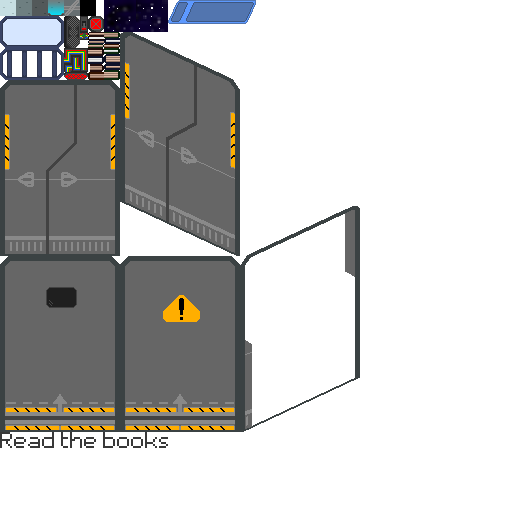
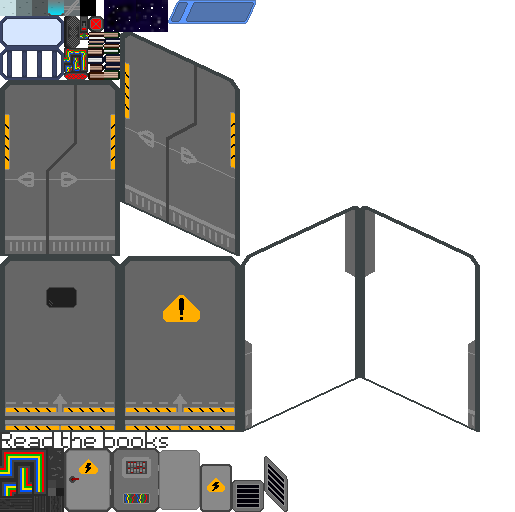
More levels. Robo mentor

diff --git a/src/main/resources/tiles/level/ShipEnvironment.tsx b/src/main/resources/tiles/level/ShipEnvironment.tsx
@@ -1,4 +1,4 @@
 <?xml version="1.0" encoding="UTF-8"?>
-<tileset version="1.5" tiledversion="1.6.0" name="ShipEnvironment" tilewidth="8" tileheight="8" tilecount="1024" columns="32">
- <image source="ShipEnvironment.png" width="256" height="256"/>
+<tileset version="1.5" tiledversion="1.6.0" name="ShipEnvironment" tilewidth="8" tileheight="8" tilecount="4096" columns="64">
+ <image source="ShipEnvironment.png" width="515" height="512"/>
 </tileset>

diff --git a/src/main/java/game/SetupGame.java b/src/main/java/game/SetupGame.java
@@ -22,14 +22,20 @@ public class SetupGame extends StateBasedGame {
     public void initStatesList(GameContainer gameContainer) throws SlickException {
         init();
 
-//        this.addState(new IntState(0, new Image("img/logo/logo.png"), null, "Press ENTER", Input.KEY_ENTER, 1));
-//        this.addState(new BaseState(1, "tiles/level/LEVEL_1.tmx", "tiles/level/LEVEL_1_FRONT.tmx", "sounds/level/Countryside.wav", new XYPos(115, 390))); //space-ambience.wav
-//
-//        this.addState(new IntState(2, null,"Strange ground hole", "Press ENTER", Input.KEY_ENTER, 3));
-//        this.addState(new BaseState(3, "tiles/level/LEVEL_2.tmx", null, "sounds/level/space-ambience.wav", new XYPos(70, 440)));
-//
+        this.addState(new IntState(0, new Image("img/logo/logo.png"), null, "Press ENTER", Input.KEY_ENTER, 1));
+        this.addState(new BaseState(1, "tiles/level/LEVEL_1.tmx", "tiles/level/LEVEL_1_FRONT.tmx", "sounds/level/Countryside.wav", new XYPos(115, 390))); //space-ambience.wav
+
+        this.addState(new IntState(2, null,"Strange ground hole", "Press ENTER", Input.KEY_ENTER, 3));
+        this.addState(new BaseState(3, "tiles/level/LEVEL_2.tmx", null, "sounds/level/space-ambience.wav", new XYPos(70, 440)));
+
         this.addState(new IntState(4, null,"The books..", "Press ENTER", Input.KEY_ENTER, 5));
         this.addState(new BaseState(5, "tiles/level/LEVEL_3.tmx", null, "sounds/level/space-ambience.wav", new XYPos(250, 512)));
+
+        this.addState(new IntState(6, null,"Space prison", "Press ENTER", Input.KEY_ENTER, 7));
+        this.addState(new BaseState(7, "tiles/level/LEVEL_4.tmx", null, "sounds/level/space-ambience.wav", new XYPos(64, 512)));
+
+        this.addState(new IntState(8, null,"Switchboard room", "Press ENTER", Input.KEY_ENTER, 9));
+        this.addState(new BaseState(9, "tiles/level/LEVEL_5.tmx", null, "sounds/level/space-ambience.wav", new XYPos(32, 536)));
     }
 
     private static void init() throws SlickException {

diff --git a/src/main/java/character/Frames.java b/src/main/java/character/Frames.java
@@ -64,6 +64,7 @@ public class Frames {
             OBJ_SPRITE_MAP.put("brdPgnSit8", SPRITES.get("sprites/bird/pigeon/siting/8"));
             OBJ_SPRITE_MAP.put("corgi24", SPRITES.get("sprites/dog/corgi/staying/30"));
             OBJ_SPRITE_MAP.put("firePlHome12", SPRITES.get("sprites/fireplace/home/11"));
+            OBJ_SPRITE_MAP.put("roboMendor9", SPRITES.get("sprites/robot/mendor/9"));
 
         } catch (SlickException se) {
             System.out.println(se.getMessage());
